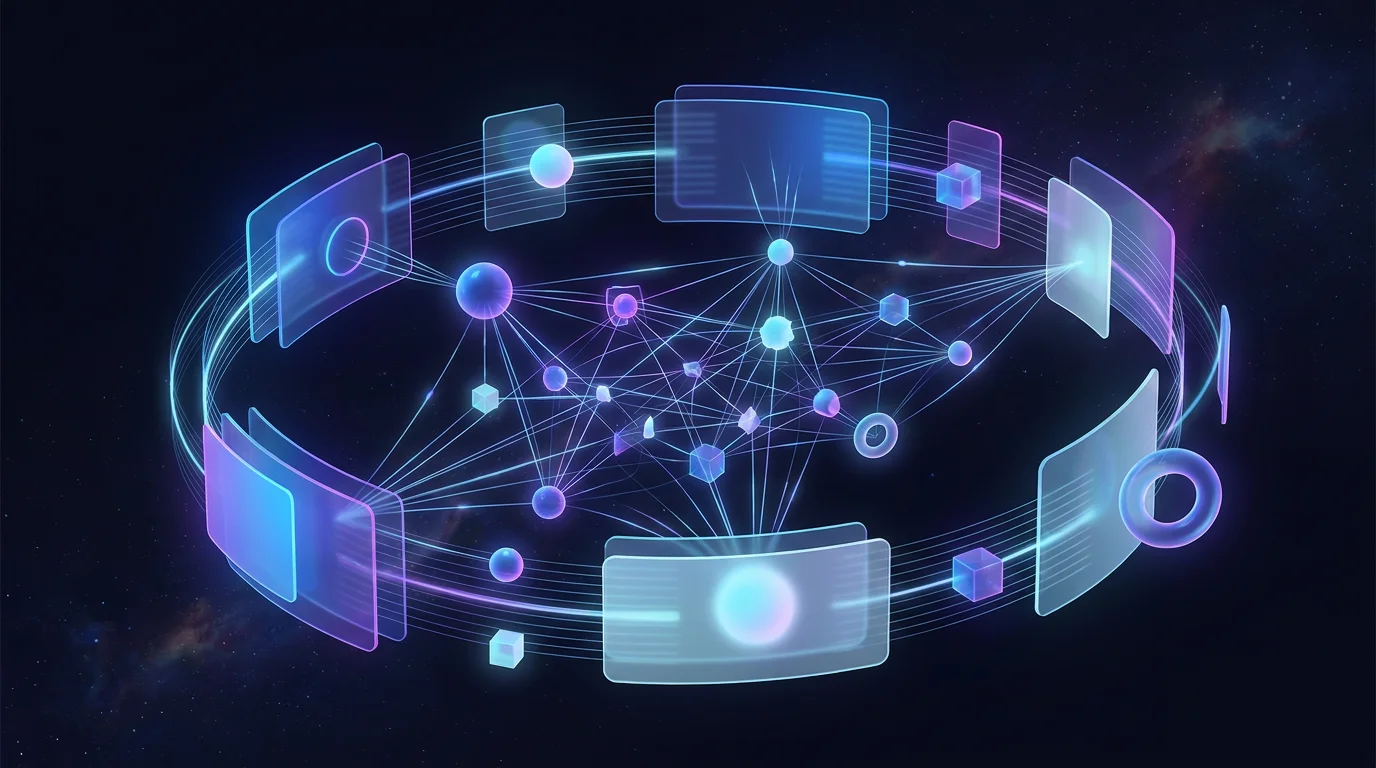
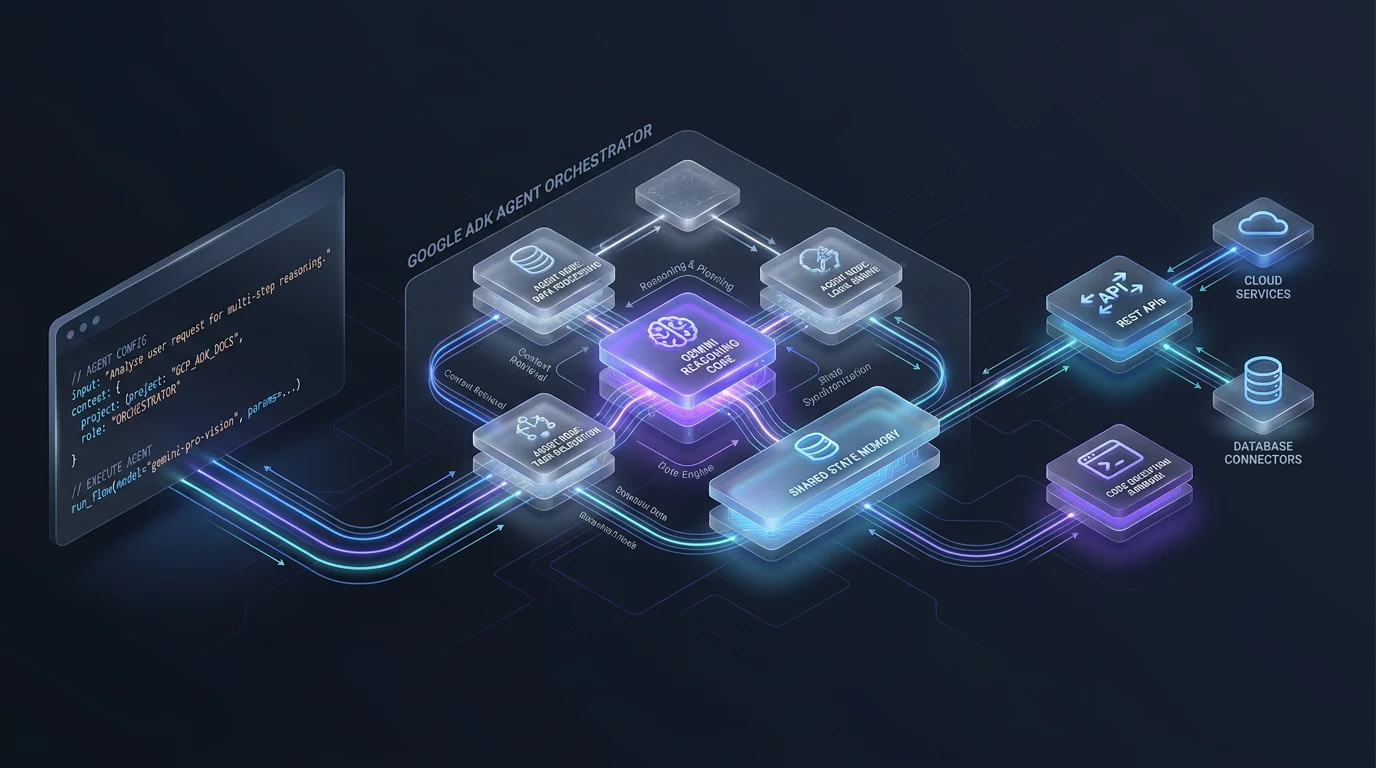
feat(ui): update module 1 hero with true architectural tech illustration and refined framing

diff --git a/doc/src/css/custom.css b/doc/src/css/custom.css
@@ -161,37 +161,39 @@ code {
   box-shadow: 0 2px 8px rgba(0, 0, 0, 0.03);
 }
 
-/* Editorial Hero Banner (Top of Theory) - 21:9 Aspect Ratio & Anti-Scroll Clamp */
+/* Editorial Hero Banner (Top of Theory) - High-end framing */
 .markdown .hero-banner-img,
 .markdown p > img:first-child {
   display: block;
   width: 100%;
-  aspect-ratio: 21 / 9;
-  max-height: clamp(180px, 26vh, 250px);
-  object-fit: cover;
+  max-width: 920px;
+  aspect-ratio: 16 / 9;
+  max-height: 440px;
+  object-fit: contain;
+  background: #0b0f19;
   border-radius: 12px;
   border: 1px solid var(--ifm-toc-border-color);
   box-shadow: 0 8px 24px rgba(0, 0, 0, 0.12);
-  margin: 1rem auto 2rem auto;
+  margin: 1.2rem auto 2.2rem auto;
   transition: transform 0.2s ease, box-shadow 0.2s ease;
 }
 
 [data-theme='dark'] .markdown .hero-banner-img,
 [data-theme='dark'] .markdown p > img:first-child {
-  border-color: rgba(255, 255, 255, 0.1);
+  border-color: rgba(255, 255, 255, 0.12);
   box-shadow: 0 8px 24px rgba(0, 0, 0, 0.45);
 }
 
-/* In-Article Editorial Figures & Technical Diagrams - 16:9 Aspect Ratio */
+/* In-Article Editorial Figures & Technical Diagrams */
 .markdown .editorial-figure,
 .markdown img:not(.hero-banner-img):not(:first-child) {
   display: block;
-  max-width: 820px;
+  max-width: 860px;
   width: 100%;
   aspect-ratio: 16 / 9;
-  max-height: 420px;
+  max-height: 440px;
   object-fit: contain;
-  background: var(--ifm-background-surface-color);
+  background: #0b0f19;
   border-radius: 12px;
   border: 1px solid var(--ifm-toc-border-color);
   box-shadow: 0 6px 20px rgba(0, 0, 0, 0.08);
@@ -201,7 +203,7 @@ code {
 
 [data-theme='dark'] .markdown .editorial-figure,
 [data-theme='dark'] .markdown img:not(.hero-banner-img):not(:first-child) {
-  border-color: rgba(255, 255, 255, 0.1);
+  border-color: rgba(255, 255, 255, 0.12);
   box-shadow: 0 6px 20px rgba(0, 0, 0, 0.35);
 }
 
